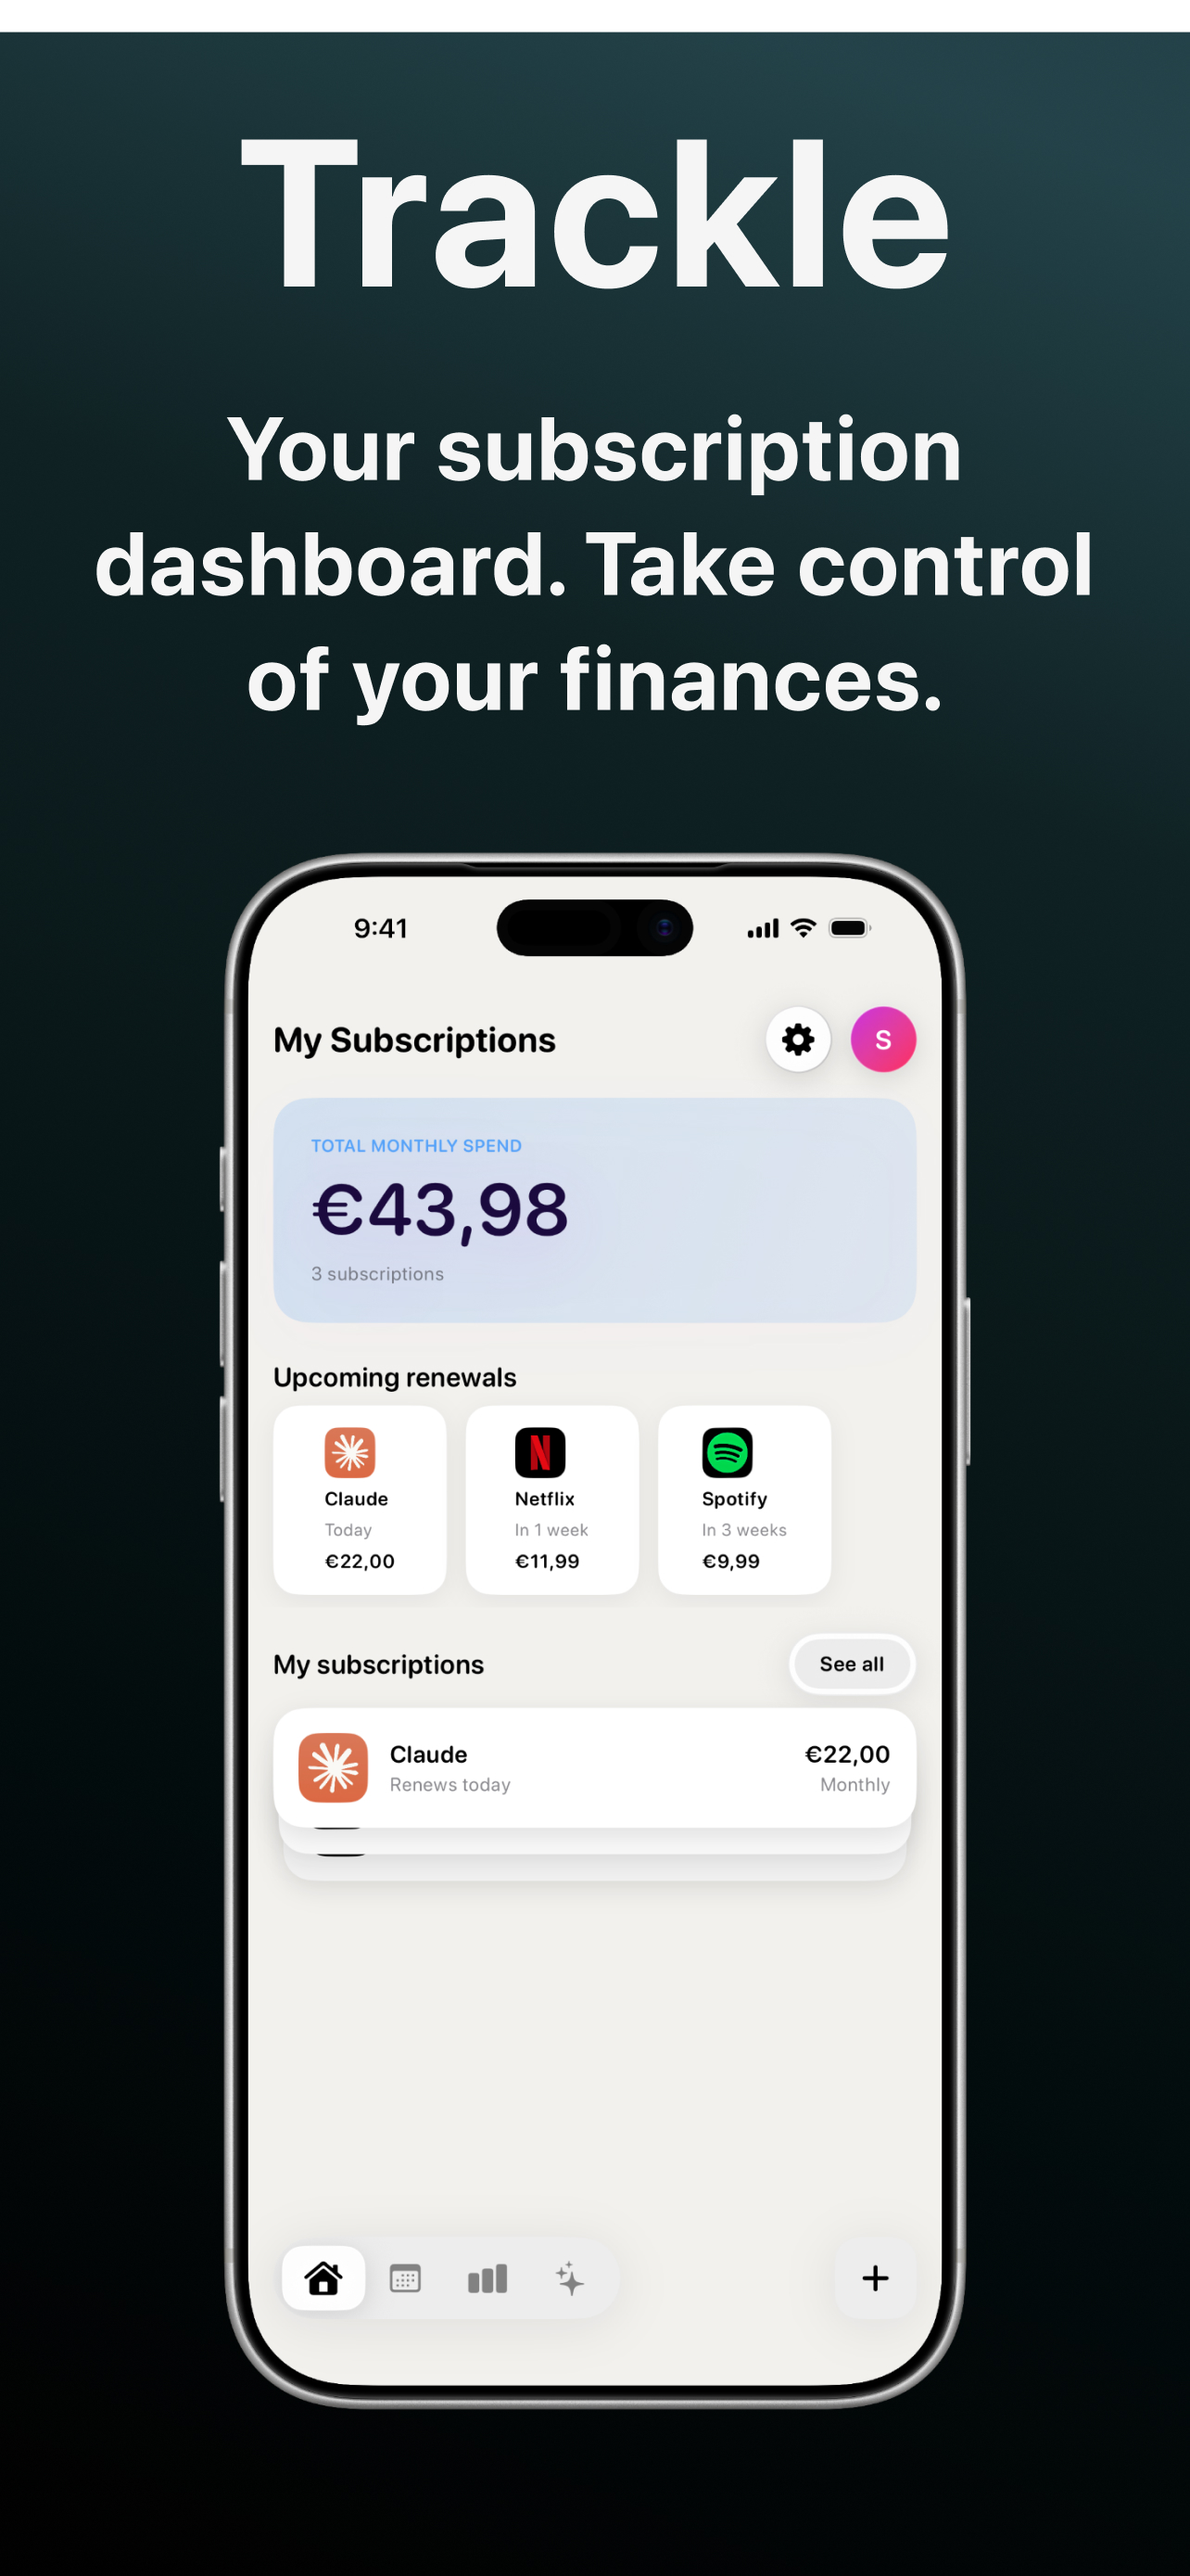
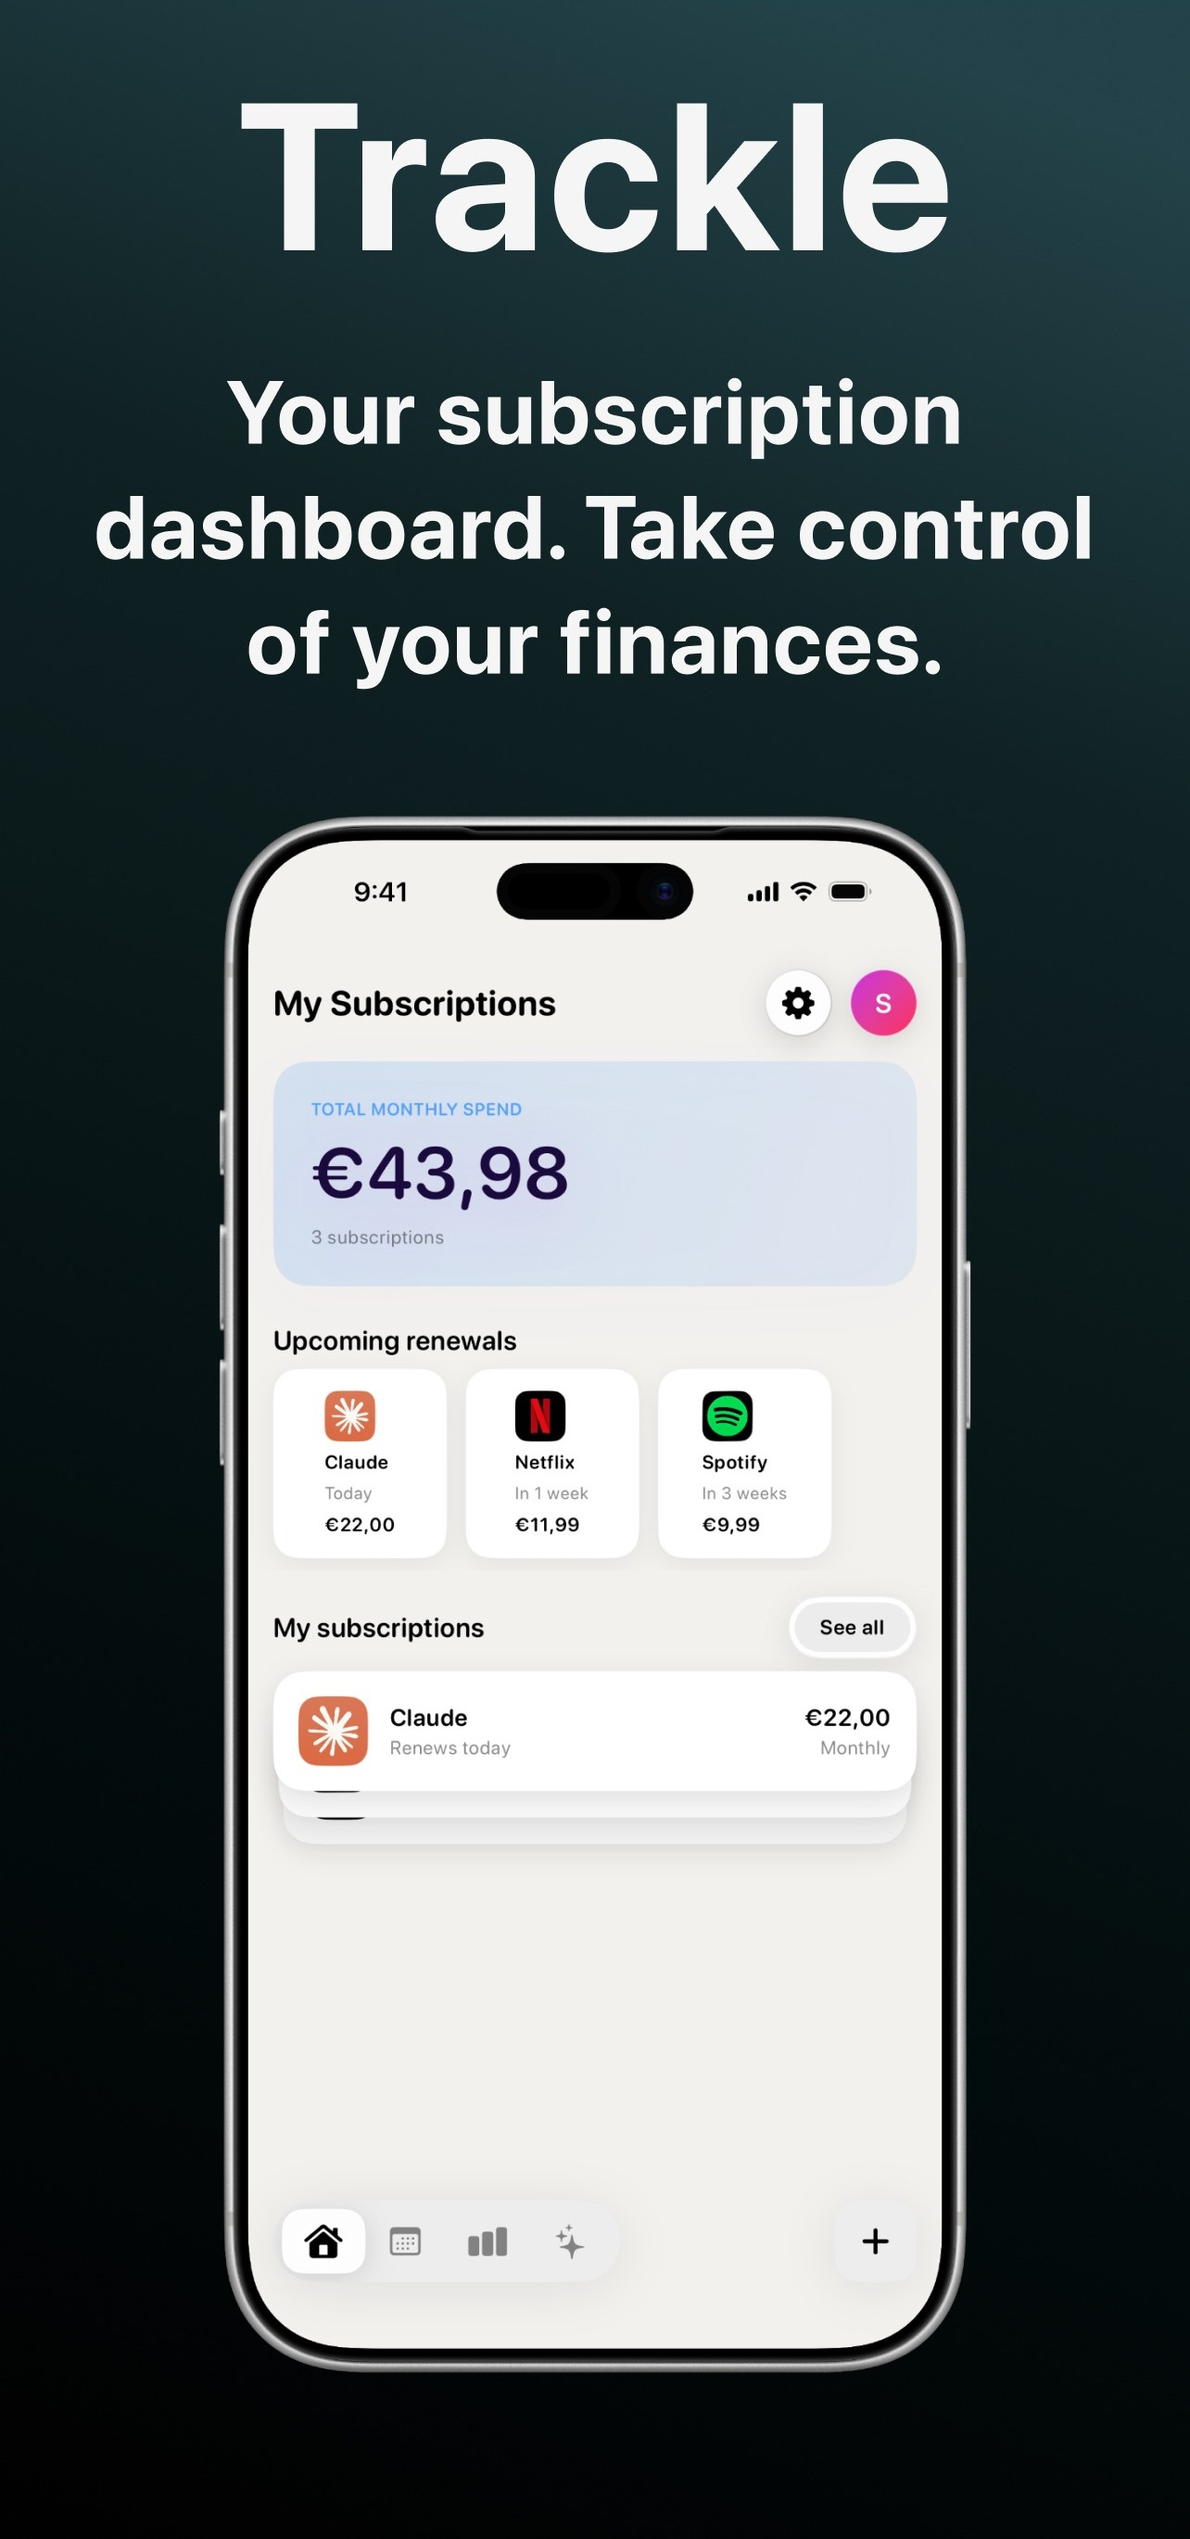
Remove white strip from dashboard screenshot and restore hero aspect ratio

diff --git a/index.html b/index.html
@@ -205,9 +205,9 @@
         }
         .hero-shot {
             width: 100%;
-            max-width: 360px;
-            aspect-ratio: 9 / 14;
-            border-radius: 36px;
+            max-width: 380px;
+            aspect-ratio: 9 / 19.5;
+            border-radius: 40px;
             overflow: hidden;
             background: #0B1220;
             box-shadow: var(--shadow-lg);
@@ -219,7 +219,7 @@
             width: 100%;
             height: 100%;
             object-fit: cover;
-            object-position: center 100%;
+            object-position: center bottom;
             display: block;
         }
 
